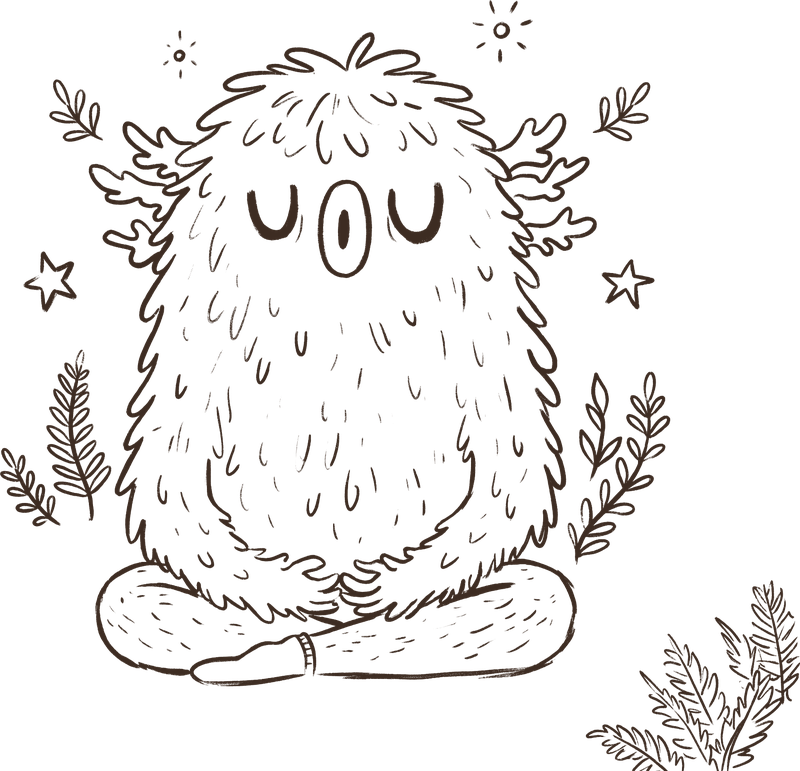
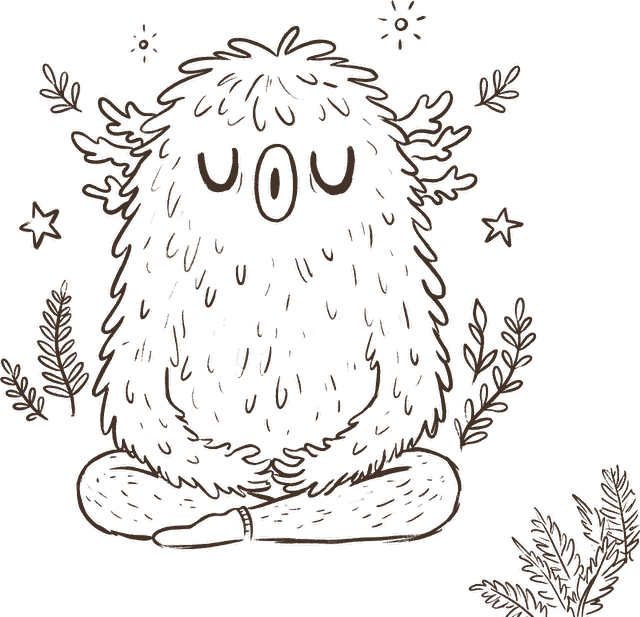
Give text links a hover underline, match button sizes, shrink the ADHD doodle

diff --git a/site/lt/index.html b/site/lt/index.html
@@ -26,7 +26,7 @@
 <meta name="twitter:card" content="summary_large_image">
 <script type="application/ld+json">{"@context": "https://schema.org", "@type": "Psychologist", "name": "Luka Kemežytė", "url": "https://luka-keme.com/lt/", "image": "https://luka-keme.com/og-image.jpg", "logo": "https://luka-keme.com/favicon-512.png", "email": "luka.keme@gmail.com", "description": "Psichologinės konsultacijos internetu lietuvių ir anglų kalbomis.", "areaServed": {"@type": "AdministrativeArea", "name": "Online, worldwide"}, "availableLanguage": ["English", "Lithuanian"], "knowsAbout": ["Anxiety", "Adult ADHD", "Burnout", "Mood swings", "Emotion regulation", "Identity", "Living between cultures"], "founder": {"@type": "Person", "name": "Luka Kemežytė", "jobTitle": "Clinical Psychologist", "knowsLanguage": ["en", "lt"], "alumniOf": [{"@type": "CollegeOrUniversity", "name": "Vilnius University"}, {"@type": "CollegeOrUniversity", "name": "University of Exeter"}]}}</script>
 <link rel="stylesheet" href="../fonts.css?v=4">
-<link rel="stylesheet" href="../site.css?v=60">
+<link rel="stylesheet" href="../site.css?v=61">
 <script src="../site.js?v=7" defer></script>
 </head>
 <body class="home">
@@ -64,7 +64,7 @@
     <div class="wrap">
       <div class="head">
         <h2>Su kuo žmonės dažnai ateina pas mane</h2>
-        <div class="stage" aria-hidden="true"><img src="../assets/dd/bird-diving-ink.png" width="547" height="596" alt="" loading="lazy"><img src="../assets/dd/cloud-wave-ink.png" width="715" height="328" alt="" loading="lazy"><img src="../assets/dd/moon-snail-ink.png" width="515" height="484" alt="" loading="lazy"><img src="../assets/dd/adhd-creature-ink.png" width="800" height="771" alt="" loading="lazy"><img src="../assets/dd/moon-fishing-ink.png" width="309" height="452" alt="" loading="lazy"><img src="../assets/dd/cloud-puffy-ink.png" width="710" height="354" alt="" loading="lazy"></div>
+        <div class="stage" aria-hidden="true"><img src="../assets/dd/bird-diving-ink.png" width="547" height="596" alt="" loading="lazy"><img src="../assets/dd/cloud-wave-ink.png" width="715" height="328" alt="" loading="lazy"><img src="../assets/dd/moon-snail-ink.png" width="515" height="484" alt="" loading="lazy"><img src="../assets/dd/adhd-creature-ink.png" width="640" height="617" alt="" loading="lazy"><img src="../assets/dd/moon-fishing-ink.png" width="309" height="452" alt="" loading="lazy"><img src="../assets/dd/cloud-puffy-ink.png" width="710" height="354" alt="" loading="lazy"></div>
       </div>
       <div class="toc">
         <a href="temos/gyvenimas-tarp-kultru.html"><span>Gyvenimas tarp kultūrų</span></a>

diff --git a/site/index.html b/site/index.html
@@ -26,7 +26,7 @@
 <meta name="twitter:card" content="summary_large_image">
 <script type="application/ld+json">{"@context": "https://schema.org", "@type": "Psychologist", "name": "Luka Kemežytė", "url": "https://luka-keme.com/", "image": "https://luka-keme.com/og-image.jpg", "logo": "https://luka-keme.com/favicon-512.png", "email": "luka.keme@gmail.com", "description": "Online psychological consultations in English and Lithuanian.", "areaServed": {"@type": "AdministrativeArea", "name": "Online, worldwide"}, "availableLanguage": ["English", "Lithuanian"], "knowsAbout": ["Anxiety", "Adult ADHD", "Burnout", "Mood swings", "Emotion regulation", "Identity", "Living between cultures"], "founder": {"@type": "Person", "name": "Luka Kemežytė", "jobTitle": "Clinical Psychologist", "knowsLanguage": ["en", "lt"], "alumniOf": [{"@type": "CollegeOrUniversity", "name": "Vilnius University"}, {"@type": "CollegeOrUniversity", "name": "University of Exeter"}]}}</script>
 <link rel="stylesheet" href="fonts.css?v=4">
-<link rel="stylesheet" href="site.css?v=60">
+<link rel="stylesheet" href="site.css?v=61">
 <script src="site.js?v=7" defer></script>
 </head>
 <body class="home">
@@ -65,7 +65,7 @@
     <div class="wrap">
       <div class="head">
         <h2>What people often come to me with</h2>
-        <div class="stage" aria-hidden="true"><img src="assets/dd/bird-diving-ink.png" width="547" height="596" alt="" loading="lazy"><img src="assets/dd/cloud-wave-ink.png" width="715" height="328" alt="" loading="lazy"><img src="assets/dd/moon-snail-ink.png" width="515" height="484" alt="" loading="lazy"><img src="assets/dd/adhd-creature-ink.png" width="800" height="771" alt="" loading="lazy"><img src="assets/dd/moon-fishing-ink.png" width="309" height="452" alt="" loading="lazy"><img src="assets/dd/cloud-puffy-ink.png" width="710" height="354" alt="" loading="lazy"></div>
+        <div class="stage" aria-hidden="true"><img src="assets/dd/bird-diving-ink.png" width="547" height="596" alt="" loading="lazy"><img src="assets/dd/cloud-wave-ink.png" width="715" height="328" alt="" loading="lazy"><img src="assets/dd/moon-snail-ink.png" width="515" height="484" alt="" loading="lazy"><img src="assets/dd/adhd-creature-ink.png" width="640" height="617" alt="" loading="lazy"><img src="assets/dd/moon-fishing-ink.png" width="309" height="452" alt="" loading="lazy"><img src="assets/dd/cloud-puffy-ink.png" width="710" height="354" alt="" loading="lazy"></div>
       </div>
       <div class="toc">
         <a href="topics/living-between-cultures.html"><span>Living between cultures</span></a>

diff --git a/site/site.css b/site/site.css
@@ -70,7 +70,7 @@ p{text-wrap:pretty;max-width:58ch}
 .hero .line{position:absolute;z-index:2;left:calc(var(--dx) + .86 * var(--dw));top:calc(var(--bh) * .03 + .394 * var(--dw));width:2.2px;--sky:max(0px,calc(var(--hz,0px) - var(--bh) * .03 - .394 * var(--dw)));--seg:calc(var(--bh) - var(--bh) * .03 - .394 * var(--dw));background:linear-gradient(to bottom,var(--dd) var(--sky),#fff var(--sky),#fff var(--seg),var(--dd) var(--seg));height:calc(var(--seg) + 108px);transform-origin:top;animation:cast 1.4s cubic-bezier(.16,1,.3,1) .3s both}
 @keyframes cast{from{transform:scaleY(0)}}
 .hero .catch{position:absolute;z-index:2;left:calc(var(--dx) + .86 * var(--dw));top:calc(var(--bh) + 108px);transform:translateX(-50%);display:flex;flex-direction:column;align-items:center;gap:8px;text-decoration:none}
-.hero .catch .book{white-space:nowrap;padding:15px 24px}
+.hero .catch .book{white-space:nowrap}
 .hero .catch small{font-size:var(--t5);color:var(--ink-soft)}
 .hero .catch:hover .book{background-size:100% 100%;color:var(--fill-ink)}
 .intro{padding-top:48px;padding-bottom:80px;max-width:none;margin:0;padding-left:max(var(--gutter),calc((100vw - var(--max)) / 2 + var(--gutter)))}
@@ -494,3 +494,7 @@ dl.rows dd{margin:0}
 @media (max-width:900px){.stage{width:150px;margin-top:20px}}
 @media (prefers-reduced-motion:reduce){.stage img{transition:opacity .2s;transform:none}}
 
+
+/* Text links answer the pointer the same way the menu does */
+a:not(.book):not(.catch){transition:text-decoration-color .2s ease,text-decoration-thickness .2s ease}
+a:not(.book):not(.catch):not(.item):hover{text-decoration-color:var(--mark);text-decoration-thickness:4px}

diff --git a/site/lt/temos/gyvenimas-tarp-kultru.html b/site/lt/temos/gyvenimas-tarp-kultru.html
@@ -25,7 +25,7 @@
 <meta property="og:locale:alternate" content="en_GB">
 <meta name="twitter:card" content="summary_large_image">
 <link rel="stylesheet" href="../../fonts.css?v=4">
-<link rel="stylesheet" href="../../site.css?v=60">
+<link rel="stylesheet" href="../../site.css?v=61">
 <script src="../../site.js?v=7" defer></script>
 </head>
 <body>

diff --git a/site/lt/apie.html b/site/lt/apie.html
@@ -25,7 +25,7 @@
 <meta property="og:locale:alternate" content="en_GB">
 <meta name="twitter:card" content="summary_large_image">
 <link rel="stylesheet" href="../fonts.css?v=4">
-<link rel="stylesheet" href="../site.css?v=60">
+<link rel="stylesheet" href="../site.css?v=61">
 <script src="../site.js?v=7" defer></script>
 </head>
 <body>

diff --git a/site/lt/grupes.html b/site/lt/grupes.html
@@ -25,7 +25,7 @@
 <meta property="og:locale:alternate" content="en_GB">
 <meta name="twitter:card" content="summary_large_image">
 <link rel="stylesheet" href="../fonts.css?v=4">
-<link rel="stylesheet" href="../site.css?v=60">
+<link rel="stylesheet" href="../site.css?v=61">
 <script src="../site.js?v=7" defer></script>
 </head>
 <body>

diff --git a/site/lt/kontaktai.html b/site/lt/kontaktai.html
@@ -25,7 +25,7 @@
 <meta property="og:locale:alternate" content="en_GB">
 <meta name="twitter:card" content="summary_large_image">
 <link rel="stylesheet" href="../fonts.css?v=4">
-<link rel="stylesheet" href="../site.css?v=60">
+<link rel="stylesheet" href="../site.css?v=61">
 <script src="../site.js?v=7" defer></script>
 </head>
 <body>

diff --git a/site/lt/poziuris.html b/site/lt/poziuris.html
@@ -25,7 +25,7 @@
 <meta property="og:locale:alternate" content="en_GB">
 <meta name="twitter:card" content="summary_large_image">
 <link rel="stylesheet" href="../fonts.css?v=4">
-<link rel="stylesheet" href="../site.css?v=60">
+<link rel="stylesheet" href="../site.css?v=61">
 <script src="../site.js?v=7" defer></script>
 </head>
 <body>

diff --git a/site/lt/saltiniai.html b/site/lt/saltiniai.html
@@ -26,7 +26,7 @@
 <meta property="og:locale:alternate" content="en_GB">
 <meta name="twitter:card" content="summary_large_image">
 <link rel="stylesheet" href="../fonts.css?v=4">
-<link rel="stylesheet" href="../site.css?v=60">
+<link rel="stylesheet" href="../site.css?v=61">
 <script src="../site.js?v=7" defer></script>
 </head>
 <body>

diff --git a/site/topics/living-between-cultures.html b/site/topics/living-between-cultures.html
@@ -25,7 +25,7 @@
 <meta property="og:locale:alternate" content="lt_LT">
 <meta name="twitter:card" content="summary_large_image">
 <link rel="stylesheet" href="../fonts.css?v=4">
-<link rel="stylesheet" href="../site.css?v=60">
+<link rel="stylesheet" href="../site.css?v=61">
 <script src="../site.js?v=7" defer></script>
 </head>
 <body>

diff --git a/site/404.html b/site/404.html
@@ -9,7 +9,7 @@
 <link rel="icon" type="image/png" sizes="32x32" href="/favicon-32x32.png">
 <meta name="theme-color" content="#f2f2ec">
 <link rel="stylesheet" href="/fonts.css?v=4">
-<link rel="stylesheet" href="/site.css?v=60">
+<link rel="stylesheet" href="/site.css?v=61">
 <script src="/site.js?v=7" defer></script>
 </head>
 <body>

diff --git a/site/about.html b/site/about.html
@@ -25,7 +25,7 @@
 <meta property="og:locale:alternate" content="lt_LT">
 <meta name="twitter:card" content="summary_large_image">
 <link rel="stylesheet" href="fonts.css?v=4">
-<link rel="stylesheet" href="site.css?v=60">
+<link rel="stylesheet" href="site.css?v=61">
 <script src="site.js?v=7" defer></script>
 </head>
 <body>
